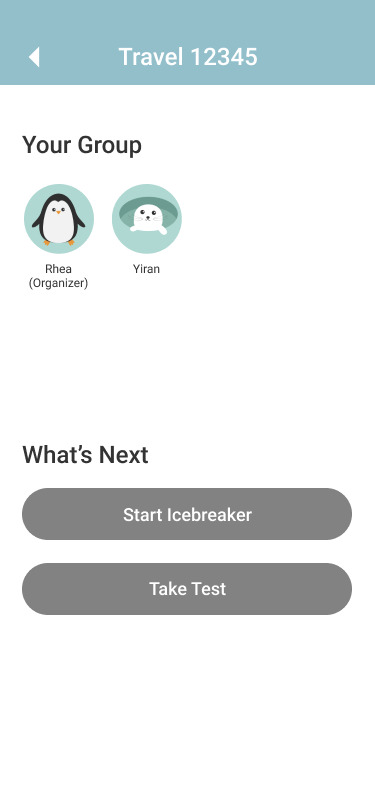
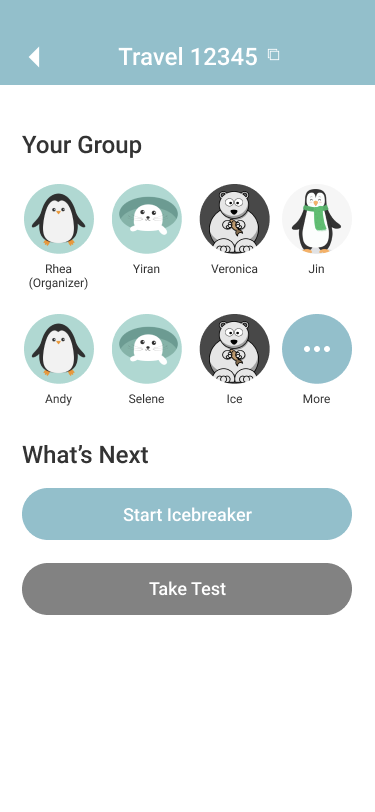
Update Figure 4 and README.md

diff --git a/README.md b/README.md
@@ -54,9 +54,8 @@ When the Organizer presses on the “Start Icebreaker” they will be lead to th
 After the Organizer has selected at least one category, the “next” button will turns from gray to blue which allows the organizer to change the selections. After clicking the “next” button, the organizer will be lead to the screen shown in [Figure 4](#figure-4) where allows the Organizer to choose from the following options:
 - Clicking “Start the game” when there are at least 2 participants (including the organizer) in the room.
 - View who has joined the room.
-- Copy room ID
-- Share room ID in other Apps
-- Go back to change selections
+- Copy room ID to the clipboard.
+- Go back to change selections.
 
 _TODO_
 
